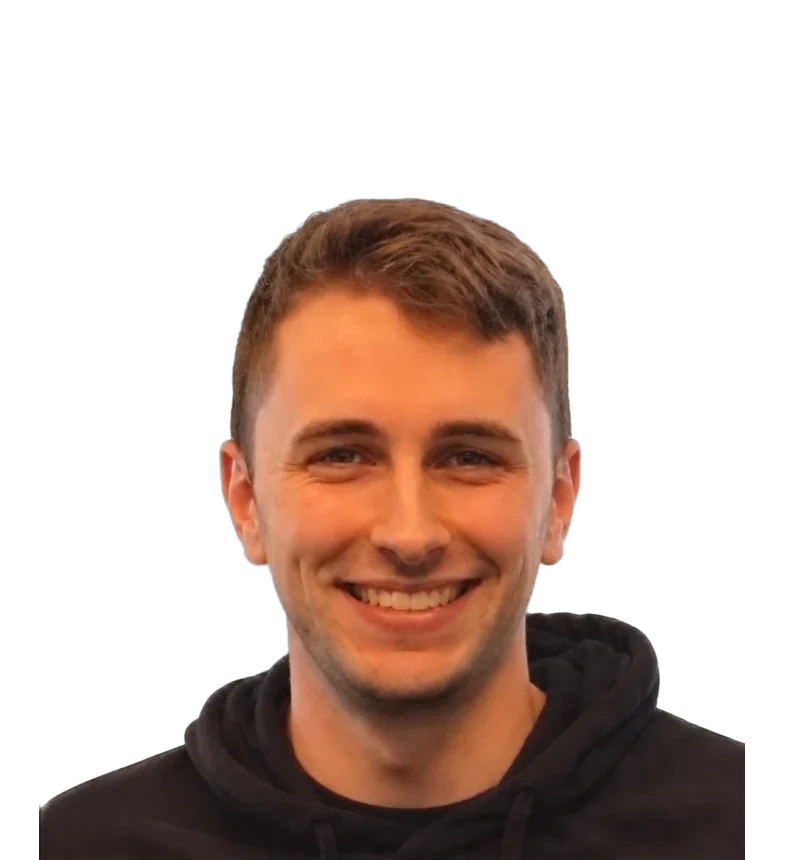
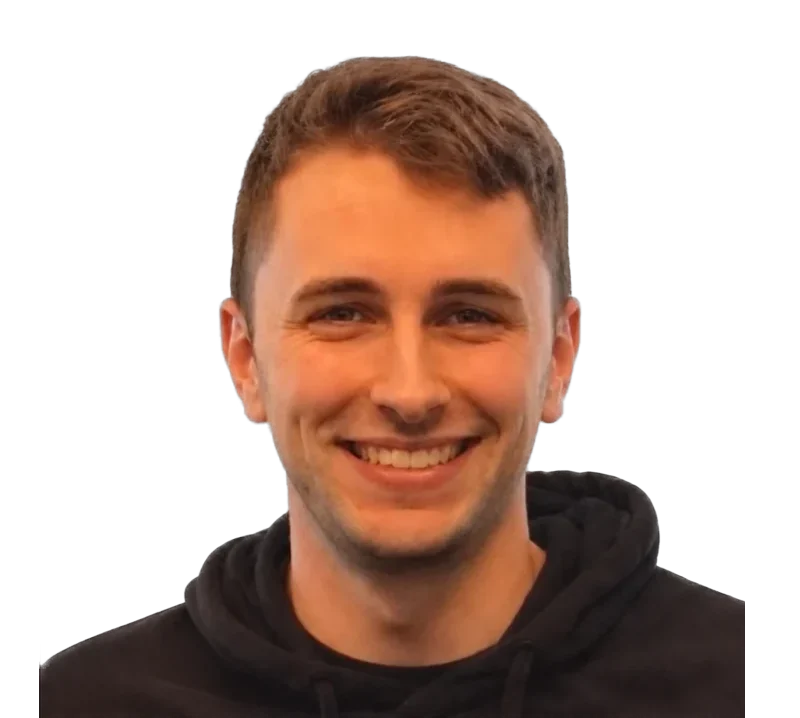
Polish footer, team photos, Mile A Day strip and pricing layout
- Footer: monolith art fills the full height beside the links, base row
  on solid black with brighter text and kept on one line on phones;
  links stay three across on mobile; only the light-up-the-seam
  animation remains, now on both the R and the W edges; hover effects,
  glow, sheen and pointer drift removed
- Team photos recropped so there is no empty space above their heads
- 'See the project' sits on its own line under the Mile A Day text
- Pricing tiers use the full width on tablets with features beside the
  price, and center the price block on phones

Claude-Session: https://claude.ai/code/session_01HRgTfRLhHaq9Wk3RaUCYjV

Changed region(s): [[0.0312, 0.0613, 0.9375, 0.9499]]

diff --git a/assets/css/site.css b/assets/css/site.css
@@ -376,8 +376,8 @@ fieldset.field { border: 0; padding: 0; margin: 0; }
 .person__photo { position: relative; overflow: hidden; background:
   radial-gradient(120% 80% at 50% 100%, rgba(94,148,247,.55), rgba(94,148,247,0) 60%),
   linear-gradient(170deg, #0A1F66, #081233 70%); }
-.person__photo::before { content: ""; position: absolute; inset: 0; background: url("../brand/rw-logo-flat.svg") no-repeat 50% 18% / 70% auto; opacity: .07; }
-.person__photo img { position: absolute; inset: 0; width: 100%; height: 100%; object-fit: cover; object-position: center bottom; transition: transform .8s var(--ease); }
+.person__photo::before { content: ""; position: absolute; inset: 0; background: url("../brand/rw-logo-flat.svg") no-repeat 50% 8% / 72% auto; opacity: .07; }
+.person__photo img { position: absolute; inset: 0; width: 100%; height: 100%; object-fit: cover; object-position: center top; transition: transform .8s var(--ease); }
 .person:hover .person__photo img { transform: scale(1.03); }
 .person__body { padding: 28px 28px 26px; display: grid; gap: 12px; align-content: start; }
 .person__role { font-size: .9rem; color: var(--blue-text); font-weight: 500; }
@@ -385,16 +385,16 @@ fieldset.field { border: 0; padding: 0; margin: 0; }
 .person p { color: var(--text-2); font-size: .98rem; }
 .person ul { list-style: none; margin: 4px 0 0; padding: 0; display: flex; flex-wrap: wrap; gap: 6px; }
 .person li { font-size: .82rem; color: var(--text-2); padding: 4px 10px; border-radius: 99px; box-shadow: inset 0 0 0 1px var(--line-strong); }
-.together { margin-top: 20px; display: flex; align-items: center; gap: 18px; padding: 18px 22px; border-radius: 16px; border: 1px solid var(--line); color: var(--text-2); }
+.together { margin-top: 20px; display: grid; grid-template-columns: 44px minmax(0, 1fr); column-gap: 18px; row-gap: 10px; align-items: start; padding: 20px 24px; border-radius: 16px; border: 1px solid var(--line); color: var(--text-2); }
+.together .link { grid-column: 2; justify-self: start; }
 .together img { width: 44px; height: 44px; border-radius: 12px; flex: none; }
-.together p { flex: 1; min-width: 0; }
+.together p { min-width: 0; max-width: 46em; }
 .together b { color: var(--text); font-weight: 600; }
 @media (max-width: 1000px) { .people { grid-template-columns: minmax(0, 1fr); max-width: 640px; } }
 @media (max-width: 860px) { .team-head { grid-template-columns: minmax(0, 1fr); } }
 @media (max-width: 560px) {
   .person { grid-template-columns: minmax(0, 1fr); }
   .person__photo { height: 300px; }
-  .together { flex-wrap: wrap; }
 }
 
 /* ---------- Launch bento ---------- */
@@ -534,7 +534,23 @@ fieldset.field { border: 0; padding: 0; margin: 0; }
 .tier li svg { width: 18px; height: 18px; color: var(--blue); margin-top: 3px; }
 .tier li b { color: var(--text); font-weight: 500; }
 .tier .btn { justify-content: center; }
-@media (max-width: 960px) { .tiers { grid-template-columns: minmax(0, 1fr); max-width: 540px; } }
+@media (max-width: 960px) {
+  .tiers { grid-template-columns: minmax(0, 1fr); }
+  .tier { grid-template-columns: minmax(0, 1fr) minmax(0, 1fr); grid-template-rows: none; column-gap: 40px; align-items: start; }
+  .tier > :not(ul) { grid-column: 1; }
+  .tier ul { grid-column: 2; grid-row: 1 / span 5; margin: 0; padding: 0 0 0 40px; border-top: 0; border-left: 1px solid var(--line); align-self: stretch; align-content: center; }
+  .tier .btn { margin-top: 6px; }
+  .tier__for { min-height: 0; }
+}
+@media (max-width: 640px) {
+  .tier { grid-template-columns: minmax(0, 1fr); text-align: center; padding: 28px 22px 24px; }
+  .tier > :not(ul), .tier ul { grid-column: 1; }
+  .tier ul { grid-row: auto; padding: 18px 0 0; border-left: 0; border-top: 1px solid var(--line); text-align: left; }
+  .tier__top { justify-content: center; flex-wrap: wrap; }
+  .tier__price { flex-direction: column; align-items: center; gap: 6px; }
+  .tier__meta { justify-content: center; }
+  .tier__for { max-width: 30em; margin-inline: auto; }
+}
 
 .included { margin-top: 28px; display: grid; grid-template-columns: repeat(3, minmax(0, 1fr)); gap: 0; border: 1px solid var(--line); border-radius: 18px; overflow: hidden; }
 .included > div { padding: 22px 24px; display: grid; grid-template-columns: 22px minmax(0, 1fr); gap: 14px; align-items: start; border-right: 1px solid var(--line); border-bottom: 1px solid var(--line); }
@@ -574,7 +590,7 @@ fieldset.field { border: 0; padding: 0; margin: 0; }
 .care-card ul { list-style: none; margin: 0; padding: 14px 0 0; border-top: 1px solid var(--line); display: grid; gap: 9px; font-size: .93rem; color: var(--text-2); }
 .care-card li { display: grid; grid-template-columns: 16px minmax(0, 1fr); gap: 10px; }
 .care-card li svg { width: 16px; height: 16px; color: var(--blue); margin-top: 4px; }
-@media (max-width: 900px) { .care-cards { grid-template-columns: minmax(0, 1fr); max-width: 540px; } }
+@media (max-width: 900px) { .care-cards { grid-template-columns: minmax(0, 1fr); } }
 
 /* ---------- Closing CTA panel ---------- */
 .closing { position: relative; padding-block: clamp(64px, 8vw, 104px); border-top: 1px solid var(--line); }
@@ -604,89 +620,61 @@ fieldset.field { border: 0; padding: 0; margin: 0; }
 @media (max-width: 420px) { .cta-panel .hero__actions { flex-direction: column; align-items: flex-start; gap: 14px; } }
 
 /* ---------- Footer ----------
-   Rob's monolith image is the stage, so there's no logo here: just the
-   wordmark, the links and a quiet base line. */
-.footer { position: relative; z-index: 1; background: #02040A; color: var(--text-3); overflow: hidden; isolation: isolate; }
-@media (min-width: 900px) {
-  .footer { min-height: max(480px, 30vw); display: flex; flex-direction: column; }
-  /* the stage keeps the art's own proportions and hugs the right edge,
-     so the monolith always sits clear of the links */
-  .footer .footer__stage { inset: auto 0 0 auto; width: 74%; height: auto; aspect-ratio: 2000 / 745; }
-  .footer::before { content: ""; position: absolute; inset: 0; z-index: -1; pointer-events: none; background:
-    linear-gradient(180deg, var(--bg) 0%, rgba(5,7,13,0) 20%),
-    linear-gradient(0deg, rgba(2,4,10,.9) 0%, rgba(2,4,10,0) 20%); }
-  .footer .footer__stage::after { background: linear-gradient(180deg, #02040A 0%, rgba(2,4,10,.5) 16%, rgba(2,4,10,0) 38%), linear-gradient(90deg, #02040A 0%, rgba(2,4,10,.55) 22%, rgba(2,4,10,0) 48%) !important; }
-}
-.footer__stage { position: absolute; inset: 0; z-index: -1; pointer-events: none; overflow: hidden; }
-.footer__img { position: absolute; inset: -14px; width: calc(100% + 28px); height: calc(100% + 28px); max-width: none; object-fit: cover; object-position: right center;
-  transform: translate3d(var(--px, 0px), var(--py, 0px), 0); transition: transform .9s var(--ease); }
+   Rob's monolith art fills the full height beside the links; the base row
+   sits on solid black so the small print stays readable. The only motion
+   is light running up the glowing edges of the R and W. */
+.footer { --base-h: 76px; position: relative; z-index: 1; background: #02040A; color: var(--text-3); overflow: hidden; isolation: isolate; display: flex; flex-direction: column; }
+.footer__stage { position: absolute; top: 0; right: 0; bottom: var(--base-h); width: 60%; z-index: -1; pointer-events: none; overflow: hidden; }
+.footer__art { position: absolute; top: 0; right: 0; height: 100%; aspect-ratio: 2000 / 745; }
+.footer__art img { position: absolute; inset: 0; width: 100%; height: 100%; max-width: none; display: block; filter: brightness(1.12) contrast(1.05); }
+/* blend the art into the black on its left and along the top */
 .footer__stage::after { content: ""; position: absolute; inset: 0; background:
-  linear-gradient(180deg, var(--bg) 0%, rgba(5,7,13,0) 20%),
-  linear-gradient(90deg, rgba(2,4,10,.7) 0%, rgba(2,4,10,.35) 40%, rgba(2,4,10,0) 62%),
-  linear-gradient(0deg, rgba(2,4,10,.9) 0%, rgba(2,4,10,0) 20%); }
-.footer__glow { position: absolute; left: 77.5%; top: 52%; width: 34%; aspect-ratio: 1; transform: translate(-50%, -50%); border-radius: 50%;
-  background: radial-gradient(circle, rgba(70, 140, 255, .55) 0%, rgba(40, 100, 255, .18) 35%, rgba(40, 100, 255, 0) 65%); mix-blend-mode: screen; opacity: .55; }
-.footer__seam { position: absolute; left: 88.1%; top: 0; bottom: 18%; width: 3px; transform: translateX(-50%); overflow: hidden; mix-blend-mode: screen; }
-.footer__seam::before { content: ""; position: absolute; left: 0; right: 0; height: 22%; top: 100%; background: linear-gradient(0deg, rgba(150,200,255,0), rgba(190,225,255,.95), rgba(150,200,255,0)); filter: blur(.5px); }
-.footer__sheen { position: absolute; left: 0; right: 0; bottom: 0; height: 26%; overflow: hidden; mix-blend-mode: screen;
-  -webkit-mask-image: linear-gradient(0deg, #000 30%, transparent); mask-image: linear-gradient(0deg, #000 30%, transparent); }
-.footer__sheen::before { content: ""; position: absolute; top: 0; bottom: 0; width: 22%; left: -30%; transform: skewX(-24deg);
-  background: linear-gradient(90deg, rgba(94,148,247,0), rgba(120,170,255,.22), rgba(94,148,247,0)); }
+  linear-gradient(90deg, #02040A 0%, rgba(2,4,10,.6) 14%, rgba(2,4,10,0) 34%),
+  linear-gradient(180deg, rgba(2,4,10,.7) 0%, rgba(2,4,10,0) 12%); }
+.footer__seam { position: absolute; width: 3px; transform: translateX(-50%); overflow: hidden; mix-blend-mode: screen; }
+.footer__seam--r { left: 88.2%; top: 0; bottom: 18%; }
+.footer__seam--w { left: 95.75%; top: 0; bottom: 41%; }
+.footer__seam::before { content: ""; position: absolute; left: 0; right: 0; height: 26%; top: 100%; background: linear-gradient(0deg, rgba(150,200,255,0), rgba(200,230,255,1), rgba(150,200,255,0)); }
+@media (prefers-reduced-motion: no-preference) {
+  .footer__seam--r::before { animation: footer-seam 4.2s cubic-bezier(.5,0,.3,1) infinite .6s; }
+  .footer__seam--w::before { animation: footer-seam 4.2s cubic-bezier(.5,0,.3,1) infinite 2.7s; }
+}
+@keyframes footer-seam { 0% { top: 100%; } 55%, 100% { top: -30%; } }
 
-.footer__main { flex: 1; display: grid; grid-template-columns: minmax(0, 1fr) repeat(3, minmax(0, auto)); gap: clamp(28px, 3.4vw, 52px); align-items: start;
-  padding-block: clamp(84px, 9vw, 120px) 48px; max-width: 780px; }
+.footer__main { display: grid; grid-template-columns: minmax(0, 1fr) repeat(3, minmax(0, auto)); gap: clamp(28px, 3.4vw, 52px); align-items: start;
+  padding-block: clamp(72px, 8vw, 112px) clamp(56px, 6vw, 80px); max-width: 780px; }
 .footer__brand { display: grid; gap: 14px; align-content: start; }
 .footer__word { font: 700 1.6rem/1 var(--font-title); letter-spacing: .01em; text-transform: uppercase; color: #fff; white-space: nowrap; }
 .footer__word span { color: var(--blue); }
 .footer__brand p { color: var(--text-2); font-size: 1rem; max-width: 15em; line-height: 1.5; }
 .socials { display: flex; gap: 6px; margin-top: 14px; margin-left: -8px; }
-.socials a { width: 38px; height: 38px; display: grid; place-items: center; border-radius: 10px; color: var(--text); transition: background .2s, color .2s, transform .2s; }
-.socials a:hover { background: rgba(94,148,247,.16); color: #fff; transform: translateY(-2px); }
+.socials a { width: 38px; height: 38px; display: grid; place-items: center; border-radius: 10px; color: var(--text); }
 .socials svg { width: 20px; height: 20px; }
 .footer h4 { font: 600 .74rem var(--font-body); letter-spacing: .16em; text-transform: uppercase; color: var(--blue-text); margin-bottom: 18px; }
 .footer ul { list-style: none; padding: 0; margin: 0; display: grid; gap: 11px; }
-.footer ul a { color: #DDE4F2; font-size: .97rem; white-space: nowrap; position: relative; transition: color .15s; }
-.footer ul a::after { content: ""; position: absolute; left: 0; right: 0; bottom: -3px; height: 1px; background: var(--blue); transform: scaleX(0); transform-origin: left; transition: transform .3s var(--ease); }
-.footer ul a:hover { color: #fff; }
-.footer ul a:hover::after { transform: scaleX(1); }
-.footer__base { position: relative; }
+.footer ul a { color: #DDE4F2; font-size: .97rem; white-space: nowrap; }
+.footer__base { position: relative; min-height: var(--base-h); display: flex; align-items: center; background: #02040A; }
 .footer__base::before { content: ""; position: absolute; left: max(24px, calc((100% - var(--well)) / 2)); right: max(24px, calc((100% - var(--well)) / 2)); top: 0; height: 1px;
-  background: linear-gradient(90deg, rgba(94,148,247,.55), rgba(94,148,247,.25) 60%, rgba(94,148,247,0)); transform-origin: left; }
-.footer__base .wrap { display: flex; justify-content: space-between; align-items: center; flex-wrap: wrap; gap: 12px; padding-block: 24px 28px; font-size: .92rem; color: #C3CBDB; }
-.footer__tag { font: 600 .74rem var(--font-body); letter-spacing: .18em; text-transform: uppercase; color: #C3CBDB; display: inline-flex; align-items: center; gap: 12px; }
+  background: linear-gradient(90deg, rgba(94,148,247,.6), rgba(94,148,247,.3) 60%, rgba(94,148,247,.1)); }
+.footer__base .wrap { display: flex; justify-content: space-between; align-items: center; flex-wrap: nowrap; gap: 16px; font-size: .92rem; color: #D5DCEA; }
+.footer__tag { font: 600 .74rem var(--font-body); letter-spacing: .18em; text-transform: uppercase; color: #D5DCEA; display: inline-flex; align-items: center; gap: 12px; white-space: nowrap; }
 .footer__tag i { width: 9px; height: 18px; background: var(--blue); transform: skewX(-24deg); display: inline-block; }
 
-@media (prefers-reduced-motion: no-preference) {
-  .footer__glow { animation: footer-breathe 5s ease-in-out infinite; }
-  .footer__seam::before { animation: footer-seam 4.5s cubic-bezier(.5,0,.3,1) infinite 1s; }
-  .footer__sheen::before { animation: footer-sheen 8s ease-in-out infinite 2s; }
-  .footer__tag i { animation: footer-tick 2.8s ease-in-out infinite; }
-  /* content and divider come in once, when the footer is reached */
-  .footer.is-pre .footer__main > *, .footer.is-pre .footer__base .wrap { opacity: 0; transform: translateY(18px); }
-  .footer.is-pre .footer__base::before { transform: scaleX(0); }
-  .footer__main > *, .footer__base .wrap { transition: opacity .8s var(--ease), transform .8s var(--ease); }
-  .footer__main > :nth-child(2) { transition-delay: .08s; } .footer__main > :nth-child(3) { transition-delay: .16s; } .footer__main > :nth-child(4) { transition-delay: .24s; }
-  .footer__base .wrap { transition-delay: .4s; }
-  .footer__base::before { transition: transform 1.4s var(--ease) .3s; }
-  @supports (animation-timeline: view()) {
-    .footer__img { animation: footer-rise linear both; animation-timeline: view(); animation-range: entry 0% entry 90%; }
-  }
-}
-@keyframes footer-breathe { 50% { opacity: .95; transform: translate(-50%, -50%) scale(1.08); } }
-@keyframes footer-seam { 0% { top: 100%; } 60%, 100% { top: -25%; } }
-@keyframes footer-sheen { 0% { left: -30%; } 55%, 100% { left: 120%; } }
-@keyframes footer-rise { from { scale: 1.1; filter: brightness(.35) saturate(.6); } to { scale: 1; filter: none; } }
-@keyframes footer-tick { 50% { transform: skewX(-24deg) translateX(3px); opacity: .6; } }
-
-@media (max-width: 1100px) and (min-width: 900px) { .footer__main { grid-template-columns: repeat(3, minmax(0, auto)); max-width: 640px; } .footer__brand { grid-column: 1 / -1; } }
+@media (max-width: 1100px) and (min-width: 900px) { .footer__main { grid-template-columns: repeat(3, minmax(0, auto)); max-width: 600px; } .footer__brand { grid-column: 1 / -1; } .footer__stage { width: 48%; } }
 @media (max-width: 899px) {
-  .footer { padding-top: 240px; }
-  .footer__img { height: 300px; inset: 0 -14px auto -14px; object-position: 82% center; }
-  .footer__glow, .footer__seam, .footer__sheen { display: none; }
-  .footer__stage::after { background: linear-gradient(180deg, var(--bg) 0, rgba(5,7,13,0) 70px, rgba(2,4,10,0) 160px, #02040A 296px); }
-  .footer__main { grid-template-columns: 1fr 1fr; padding-top: 24px; }
+  .footer { padding-top: 250px; }
+  .footer__stage { bottom: auto; height: 290px; width: 100%; }
+  .footer__stage::after { background: linear-gradient(180deg, var(--bg) 0, rgba(5,7,13,0) 60px, rgba(2,4,10,0) 160px, #02040A 286px); }
+  .footer__main { grid-template-columns: repeat(3, minmax(0, 1fr)); gap: 28px 16px; padding-top: 16px; }
   .footer__brand { grid-column: 1 / -1; }
-  .footer__base .wrap { flex-direction: column; align-items: flex-start; }
+  .footer ul a { white-space: normal; font-size: .9rem; }
+  .footer h4 { font-size: .68rem; letter-spacing: .12em; }
+}
+@media (max-width: 520px) {
+  .footer__base .wrap { font-size: .74rem; gap: 10px; }
+  .footer__base .rights { display: none; }
+  .footer__tag { font-size: .62rem; letter-spacing: .12em; gap: 8px; }
+  .footer__tag i { width: 7px; height: 14px; }
 }
 
 .price-foot { display: flex; justify-content: space-between; flex-wrap: wrap; gap: 16px; align-items: center; margin-top: 20px; color: var(--text-2); }
@@ -695,8 +683,6 @@ fieldset.field { border: 0; padding: 0; margin: 0; }
 .site-header .nav-cta .btn { background: #fff; color: #0A1221; }
 .site-header .nav-cta .btn:hover { background: var(--blue); color: #000; }
 @media (max-width: 560px) {
-  .together { display: grid; grid-template-columns: 44px minmax(0, 1fr); align-items: start; }
-  .together .link { grid-column: 2; }
   .tile--wide .tile__vis { height: auto; padding-block: 26px; }
   .gauges { display: grid; grid-template-columns: repeat(2, auto); gap: 18px 36px; }
 }

diff --git a/site/contact.html b/site/contact.html
@@ -121,10 +121,11 @@
 
 <footer class="footer">
   <div class="footer__stage" aria-hidden="true">
-    <img class="footer__img" src="../assets/brand/footer-art.webp" srcset="../assets/brand/footer-art-1200.webp 1200w, ../assets/brand/footer-art.webp 2000w" sizes="100vw" alt="" loading="lazy" width="2000" height="745">
-    <div class="footer__glow"></div>
-    <div class="footer__seam"></div>
-    <div class="footer__sheen"></div>
+    <div class="footer__art">
+      <img src="../assets/brand/footer-art.webp" srcset="../assets/brand/footer-art-1200.webp 1200w, ../assets/brand/footer-art.webp 2000w" sizes="(max-width: 899px) 900px, 60vw" alt="" loading="lazy" width="2000" height="745">
+      <div class="footer__seam footer__seam--r"></div>
+      <div class="footer__seam footer__seam--w"></div>
+    </div>
   </div>
   <div class="wrap footer__inner">
     <div class="footer__main">
@@ -143,7 +144,7 @@
       <div><h4>Resources</h4><ul><li><a href="pricing.html#faq">FAQ</a></li><li><a href="pricing.html#main-street">Main Street Program</a></li><li><a href="contact.html">Book a Call</a></li><li><a href="https://mileaday.run" target="_blank" rel="noopener">Mile A Day</a></li></ul></div>
     </div>
   </div>
-  <div class="footer__base"><div class="wrap"><span>© <span data-year>2026</span> Revamp Web. All rights reserved.</span><span class="footer__tag">Built for what's next. <i aria-hidden="true"></i></span></div></div>
+  <div class="footer__base"><div class="wrap"><span>© <span data-year>2026</span> Revamp Web<span class="rights">. All rights reserved.</span></span><span class="footer__tag">Built for what's next. <i aria-hidden="true"></i></span></div></div>
 </footer>
 
 <script src="../assets/js/gradient.js"></script>

diff --git a/site/index.html b/site/index.html
@@ -385,10 +385,11 @@
 
 <footer class="footer">
   <div class="footer__stage" aria-hidden="true">
-    <img class="footer__img" src="../assets/brand/footer-art.webp" srcset="../assets/brand/footer-art-1200.webp 1200w, ../assets/brand/footer-art.webp 2000w" sizes="100vw" alt="" loading="lazy" width="2000" height="745">
-    <div class="footer__glow"></div>
-    <div class="footer__seam"></div>
-    <div class="footer__sheen"></div>
+    <div class="footer__art">
+      <img src="../assets/brand/footer-art.webp" srcset="../assets/brand/footer-art-1200.webp 1200w, ../assets/brand/footer-art.webp 2000w" sizes="(max-width: 899px) 900px, 60vw" alt="" loading="lazy" width="2000" height="745">
+      <div class="footer__seam footer__seam--r"></div>
+      <div class="footer__seam footer__seam--w"></div>
+    </div>
   </div>
   <div class="wrap footer__inner">
     <div class="footer__main">
@@ -407,7 +408,7 @@
       <div><h4>Resources</h4><ul><li><a href="pricing.html#faq">FAQ</a></li><li><a href="pricing.html#main-street">Main Street Program</a></li><li><a href="contact.html">Book a Call</a></li><li><a href="https://mileaday.run" target="_blank" rel="noopener">Mile A Day</a></li></ul></div>
     </div>
   </div>
-  <div class="footer__base"><div class="wrap"><span>© <span data-year>2026</span> Revamp Web. All rights reserved.</span><span class="footer__tag">Built for what's next. <i aria-hidden="true"></i></span></div></div>
+  <div class="footer__base"><div class="wrap"><span>© <span data-year>2026</span> Revamp Web<span class="rights">. All rights reserved.</span></span><span class="footer__tag">Built for what's next. <i aria-hidden="true"></i></span></div></div>
 </footer>
 
 <script src="../assets/js/gradient.js"></script>

diff --git a/site/pricing.html b/site/pricing.html
@@ -222,10 +222,11 @@
 
 <footer class="footer">
   <div class="footer__stage" aria-hidden="true">
-    <img class="footer__img" src="../assets/brand/footer-art.webp" srcset="../assets/brand/footer-art-1200.webp 1200w, ../assets/brand/footer-art.webp 2000w" sizes="100vw" alt="" loading="lazy" width="2000" height="745">
-    <div class="footer__glow"></div>
-    <div class="footer__seam"></div>
-    <div class="footer__sheen"></div>
+    <div class="footer__art">
+      <img src="../assets/brand/footer-art.webp" srcset="../assets/brand/footer-art-1200.webp 1200w, ../assets/brand/footer-art.webp 2000w" sizes="(max-width: 899px) 900px, 60vw" alt="" loading="lazy" width="2000" height="745">
+      <div class="footer__seam footer__seam--r"></div>
+      <div class="footer__seam footer__seam--w"></div>
+    </div>
   </div>
   <div class="wrap footer__inner">
     <div class="footer__main">
@@ -244,7 +245,7 @@
       <div><h4>Resources</h4><ul><li><a href="pricing.html#faq">FAQ</a></li><li><a href="pricing.html#main-street">Main Street Program</a></li><li><a href="contact.html">Book a Call</a></li><li><a href="https://mileaday.run" target="_blank" rel="noopener">Mile A Day</a></li></ul></div>
     </div>
   </div>
-  <div class="footer__base"><div class="wrap"><span>© <span data-year>2026</span> Revamp Web. All rights reserved.</span><span class="footer__tag">Built for what's next. <i aria-hidden="true"></i></span></div></div>
+  <div class="footer__base"><div class="wrap"><span>© <span data-year>2026</span> Revamp Web<span class="rights">. All rights reserved.</span></span><span class="footer__tag">Built for what's next. <i aria-hidden="true"></i></span></div></div>
 </footer>
 
 <script src="../assets/js/gradient.js"></script>

diff --git a/site/work.html b/site/work.html
@@ -165,10 +165,11 @@
 
 <footer class="footer">
   <div class="footer__stage" aria-hidden="true">
-    <img class="footer__img" src="../assets/brand/footer-art.webp" srcset="../assets/brand/footer-art-1200.webp 1200w, ../assets/brand/footer-art.webp 2000w" sizes="100vw" alt="" loading="lazy" width="2000" height="745">
-    <div class="footer__glow"></div>
-    <div class="footer__seam"></div>
-    <div class="footer__sheen"></div>
+    <div class="footer__art">
+      <img src="../assets/brand/footer-art.webp" srcset="../assets/brand/footer-art-1200.webp 1200w, ../assets/brand/footer-art.webp 2000w" sizes="(max-width: 899px) 900px, 60vw" alt="" loading="lazy" width="2000" height="745">
+      <div class="footer__seam footer__seam--r"></div>
+      <div class="footer__seam footer__seam--w"></div>
+    </div>
   </div>
   <div class="wrap footer__inner">
     <div class="footer__main">
@@ -187,7 +188,7 @@
       <div><h4>Resources</h4><ul><li><a href="pricing.html#faq">FAQ</a></li><li><a href="pricing.html#main-street">Main Street Program</a></li><li><a href="contact.html">Book a Call</a></li><li><a href="https://mileaday.run" target="_blank" rel="noopener">Mile A Day</a></li></ul></div>
     </div>
   </div>
-  <div class="footer__base"><div class="wrap"><span>© <span data-year>2026</span> Revamp Web. All rights reserved.</span><span class="footer__tag">Built for what's next. <i aria-hidden="true"></i></span></div></div>
+  <div class="footer__base"><div class="wrap"><span>© <span data-year>2026</span> Revamp Web<span class="rights">. All rights reserved.</span></span><span class="footer__tag">Built for what's next. <i aria-hidden="true"></i></span></div></div>
 </footer>
 
 <script src="../assets/js/gradient.js"></script>

diff --git a/assets/js/site.js b/assets/js/site.js
@@ -156,22 +156,5 @@
   }
 
 
-  /* Footer art drifts a little with the pointer */
-  const footer = document.querySelector(".footer");
-  if (footer && !reduceMotion && "IntersectionObserver" in window) {
-    footer.classList.add("is-pre");
-    const fio = new IntersectionObserver(([e]) => { if (e.isIntersecting) { footer.classList.remove("is-pre"); fio.disconnect(); } }, { threshold: 0.25 });
-    fio.observe(footer);
-  }
-  if (footer && !reduceMotion && window.matchMedia("(hover: hover)").matches) {
-    footer.addEventListener("pointermove", (e) => {
-      const r = footer.getBoundingClientRect();
-      const x = (e.clientX - r.left) / r.width - 0.5, y = (e.clientY - r.top) / r.height - 0.5;
-      footer.style.setProperty("--px", (-x * 14).toFixed(1) + "px");
-      footer.style.setProperty("--py", (-y * 10).toFixed(1) + "px");
-    });
-    footer.addEventListener("pointerleave", () => { footer.style.setProperty("--px", "0px"); footer.style.setProperty("--py", "0px"); });
-  }
-
   document.querySelectorAll("[data-year]").forEach((el) => (el.textContent = new Date().getFullYear()));
 })();
